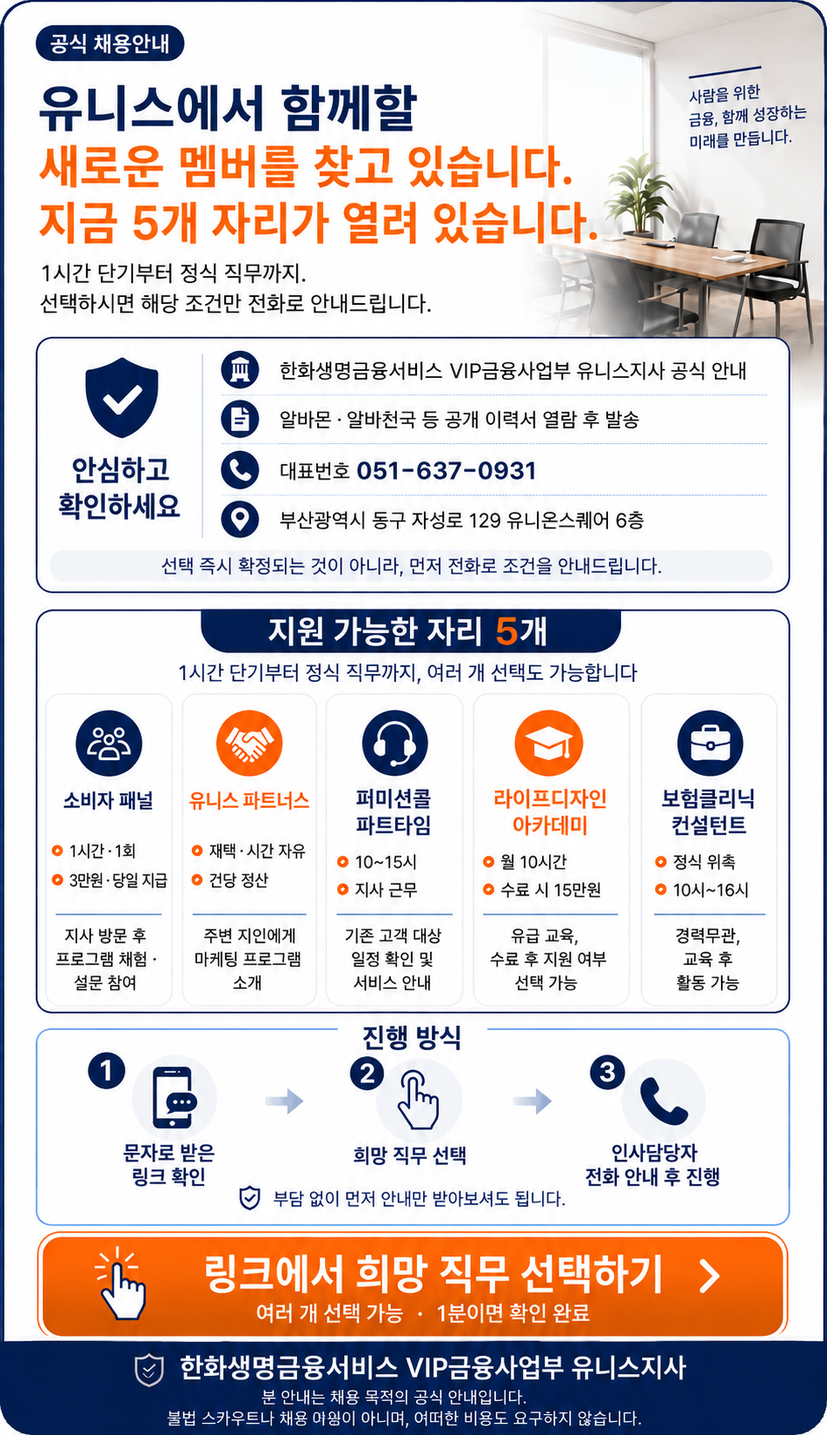
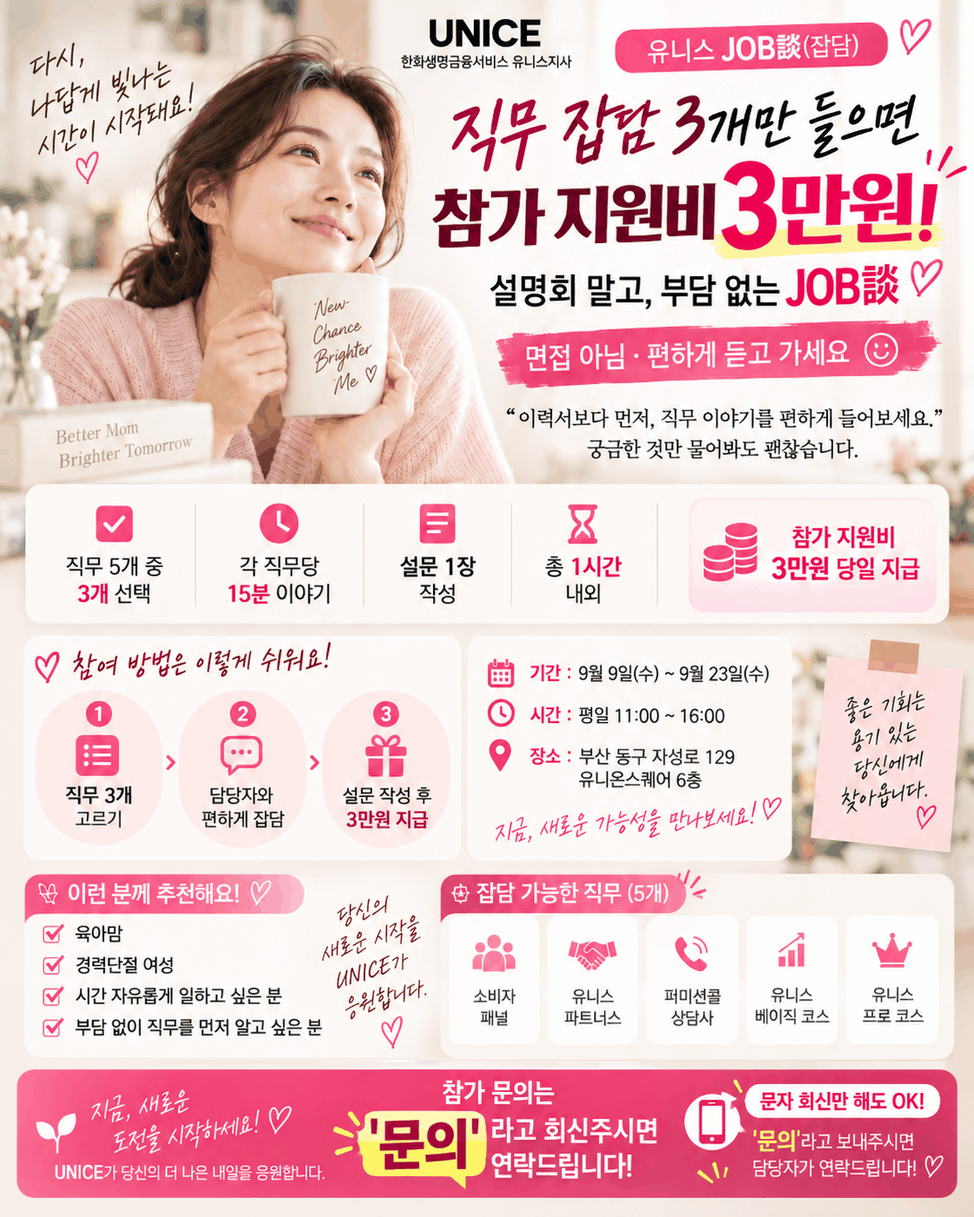
Add files via upload

diff --git a/unispace/job/index.html b/unispace/job/index.html
@@ -3,9 +3,9 @@
 <head>
 <meta charset="UTF-8">
 <meta name="viewport" content="width=device-width, initial-scale=1, viewport-fit=cover">
-<title>유니스지사 채용안내</title>
-<meta property="og:title" content="유니스지사 채용안내">
-<meta property="og:description" content="희망 직무 선택 · 1분이면 확인">
+<title>유니스 JOB談(잡담) 안내</title>
+<meta property="og:title" content="유니스 JOB談(잡담) · 9/9~9/23">
+<meta property="og:description" content="직무 잡담 3개 + 설문 1장 → 참가 지원비 3만원">
 <link rel="stylesheet" href="https://cdn.jsdelivr.net/gh/orioncactus/pretendard@v1.3.9/dist/web/static/pretendard.min.css">
 <style>
 :root{
@@ -126,6 +126,22 @@ h1 em{font-style:normal;color:var(--or-deep)}
 @keyframes jdspin{to{transform:rotate(360deg)}}
 @media (prefers-reduced-motion:reduce){.spin{animation-duration:2s}}
 
+/* jobdam info strip */
+.strip{margin:12px 16px 0;display:grid;grid-template-columns:1fr 1fr 1.3fr;gap:6px}
+.strip div{background:var(--navy);color:#fff;border-radius:12px;padding:11px 8px;text-align:center}
+.strip small{display:block;font-size:10.5px;color:#B8C2D6;font-weight:600;letter-spacing:.02em}
+.strip b{display:block;font-size:15px;font-weight:800;margin-top:3px;letter-spacing:-.02em}
+.strip b em{font-style:normal;color:#FFB570}
+.strip .hl{background:var(--or)}
+.strip .hl small{color:#FFE3CF}
+.formula{margin:8px 16px 0;background:#fff;border:1px dashed #F5C09A;border-radius:12px;padding:10px 12px;font-size:13px;font-weight:700;text-align:center;color:var(--ink)}
+.formula em{font-style:normal;color:var(--or-deep)}
+.cnt{margin-top:10px;display:flex;justify-content:center;gap:6px}
+.cnt i{width:26px;height:26px;border-radius:50%;border:1.5px solid #CBD2DA;background:#fff;font-style:normal;font-size:12px;font-weight:800;color:#CBD2DA;display:flex;align-items:center;justify-content:center}
+.cnt i.on{background:var(--or);border-color:var(--or);color:#fff}
+.cnt i.more{border-style:dashed}
+.brand .jd{font-family:"Pretendard",serif;letter-spacing:0}
+
 /* sticky cta */
 .cta{position:fixed;left:0;right:0;bottom:0;padding:10px 16px 16px;background:linear-gradient(to top,rgba(243,245,247,1) 60%,rgba(243,245,247,0))}
 .cta .in{max-width:480px;margin:0 auto}
@@ -138,8 +154,8 @@ h1 em{font-style:normal;color:var(--or-deep)}
 <div class="wrap">
 
   <div class="top">
-    <div class="brand"><span class="mark"></span><div>한화생명금융서비스<small>VIP금융사업부 유니스지사 · 공식 채용안내</small></div></div>
-    <a class="tel" href="tel:0516370931">대표번호 051-637-0931</a>
+    <div class="brand"><span class="mark"></span><div>유니스 <span class="jd">JOB談</span> <span style="font-weight:600;color:var(--mute);font-size:12px">(잡담)</span><small>한화생명금융서비스 유니스지사</small></div></div>
+    <a class="tel" href="tel:0516370931" style="white-space:nowrap">051-637-0931</a>
   </div>
 
   <div class="ticket" id="ticketBox">
@@ -149,49 +165,64 @@ h1 em{font-style:normal;color:var(--or-deep)}
   </div>
 
   <div class="hero">
-    <div class="eyebrow">공식 채용안내 · 읽는 데 1분</div>
-    <h1 id="heroTitle">이력서를 확인하고<br>연락드렸습니다.<br>지금 <em>5개 직무</em>가 열려 있습니다.</h1>
-    <p class="lead">1시간 단기부터 정식 직무까지.<br>선택하시면 해당 조건만 전화로 안내드립니다.</p>
+    <div class="eyebrow">유니스 JOB談(잡담) · 9월 9일 ~ 9월 23일</div>
+    <h1 id="heroTitle">JOB 이야기를<br>잡담처럼 편하게.<br>직무 잡담 <em>3개</em>에 지원비 3만원.</h1>
+    <p class="lead">직무 5개 중 3개를 고르면, 그 일을 실제로 하는 담당자와<br>15분씩 이야기합니다. 설명회도 면접도 아닌, 잡담입니다.</p>
   </div>
+
+  <div class="strip">
+    <div><small>기간</small><b>9/9 ~ 9/23</b></div>
+    <div><small>소요 시간</small><b>약 1시간</b></div>
+    <div class="hl"><small>참가 지원비</small><b>3만원 <em style="color:#fff;font-size:11px;font-weight:600">당일 지급</em></b></div>
+  </div>
+  <div class="formula">직무 잡담 <em>3개</em> + 설문 <em>1장</em> = 참가 지원비 <em>3만원</em><div style="font-weight:600;color:var(--mute);font-size:12px;margin-top:3px">평일 11~16시 중 원하는 시간 1회 방문</div></div>
 
   <div style="margin:16px 16px 0;display:grid;grid-template-columns:1fr 1fr 1fr;gap:6px">
     <div style="background:#fff;border:1px solid var(--line);border-radius:12px;padding:10px 8px;text-align:center">
       <div style="font-size:11px;font-weight:800;color:var(--or-deep)">STEP 1</div>
-      <div style="font-size:12.5px;font-weight:700;margin-top:2px">희망 직무 선택</div>
+      <div style="font-size:12.5px;font-weight:700;margin-top:2px">직무 3개 선택</div>
     </div>
     <div style="background:#fff;border:1px solid var(--line);border-radius:12px;padding:10px 8px;text-align:center">
       <div style="font-size:11px;font-weight:800;color:var(--or-deep)">STEP 2</div>
-      <div style="font-size:12.5px;font-weight:700;margin-top:2px">담당자 전화 안내</div>
+      <div style="font-size:12.5px;font-weight:700;margin-top:2px">담당자 전화</div>
     </div>
     <div style="background:#fff;border:1px solid var(--line);border-radius:12px;padding:10px 8px;text-align:center">
       <div style="font-size:11px;font-weight:800;color:var(--or-deep)">STEP 3</div>
-      <div style="font-size:12.5px;font-weight:700;margin-top:2px">조건 확인 후 결정</div>
+      <div style="font-size:12.5px;font-weight:700;margin-top:2px">일정 확정 · 방문</div>
     </div>
   </div>
-  <div style="margin:8px 16px 0;font-size:12px;color:var(--mute);text-align:center">선택 즉시 확정되는 것이 아니라, 먼저 전화로 조건을 안내드립니다.</div>
+  <div style="margin:8px 16px 0;font-size:12px;color:var(--mute);text-align:center">신청 후 담당자가 전화로 방문 일정을 잡아드립니다.</div>
 
   <div class="person" id="personBox">
     <div class="ph" id="ownAvatar">유</div>
     <div>
-      <div class="nm"><span id="ownName">담당자</span> <span style="font-weight:500;font-size:13px;color:var(--mute)" id="ownTitle">채용홍보 담당</span></div>
+      <div class="nm"><span id="ownName">담당자</span> <span style="font-weight:500;font-size:13px;color:var(--mute)" id="ownTitle">잡담 담당</span></div>
       <div class="rl" id="ownRow">한화생명금융서비스 유니스지사</div>
-      <div class="msg">방금 통화드린 사람이 저예요. 궁금한 건 이 번호로 문자 주셔도 됩니다.</div>
+      <div class="msg" id="ownMsg">방금 통화드린 사람이 저예요. 오시면 제가 잡담 맡아서 직접 이야기 나눌게요.</div>
+      <div class="mgr" id="mgrLine" style="display:none;margin-top:9px;padding:9px 11px;background:#F3F5F7;border-radius:9px;font-size:12px;color:var(--ink2)">
+        <div style="display:flex;align-items:center;gap:6px"><span>📞</span><span>방문 일정 확인 전화</span></div>
+        <div style="display:flex;align-items:center;justify-content:space-between;gap:8px;margin-top:4px;padding-left:22px">
+          <b id="mgrName" style="color:var(--ink);font-size:13px;white-space:nowrap">지점장</b>
+          <span id="mgrPhone" style="color:var(--ink);font-weight:700;font-variant-numeric:tabular-nums;white-space:nowrap"></span>
+        </div>
+      </div>
     </div>
   </div>
 
 
   <div class="sec">
-    <h2>지원 가능한 직무 <em>5개</em></h2>
-    <div class="sub">복수 선택 가능합니다.</div>
+    <h2>잡담할 직무 <em>5개</em></h2>
+    <div class="sub"><b style="color:var(--ink)">3개 이상</b> 골라주세요. 하나당 15분씩, 그 일을 하는 담당자와 이야기합니다.</div>
+    <div class="cnt" id="cnt"><i>1</i><i>2</i><i>3</i><i class="more">+</i></div>
     <div class="jobs" id="jobs">
 
       <div class="job">
-        <div class="rail"><div class="rb"><b>단기알바</b><span>1시간 1회</span><i class="rm" style="font-style:normal">3만원</i></div></div>
+        <div class="rail"><div class="rb"><b>체험</b><span>15분 + 설문</span><i class="rm" style="font-style:normal">설문 1장</i></div></div>
         <div class="card" data-k="panel"><i class="chk"></i>
           <div class="t">소비자 패널</div>
-          <div class="pay">3만원 · 당일 지급</div>
-          <div class="d">라이프핏 프로그램 평가단. 지사에 오셔서 1시간 프로그램을 보고 소비자 설문에 답해주시면 끝입니다.</div>
-          <div class="tags"><span class="tag">지사 방문 1회</span><span class="tag">설문 참여</span><span class="tag">일정은 전화로 조율</span></div>
+          <div class="pay">라이프핏 프로그램 체험 · 소비자 설문</div>
+          <div class="d">라이프핏 프로그램을 15분 보고 소비자 입장에서 설문에 답합니다. 이 설문이 지원비 조건의 "설문 1장"입니다.</div>
+          <div class="tags"><span class="tag">프로그램 체험</span><span class="tag">설문 참여</span><span class="tag">잡담 1개로 인정</span></div>
         </div>
       </div>
 
@@ -208,7 +239,7 @@ h1 em{font-style:normal;color:var(--or-deep)}
       <div class="job">
         <div class="rail"><div class="rb"><b>파트타임</b><span>13~15시<br>월평균</span><i class="rm" style="font-style:normal">50만</i></div></div>
         <div class="card" data-k="permission"><i class="chk"></i>
-          <div class="t">퍼미션콜 파트타임</div>
+          <div class="t">퍼미션콜 상담사</div>
           <div class="pay">건당 정산</div>
           <div class="d">기존 고객에게 일정 확인과 서비스 안내 전화를 드립니다. 신규 판매 전화가 아니라 이미 고객인 분들께만 연락합니다.</div>
           <div class="tags"><span class="tag">기존 고객 대상</span><span class="tag">지사 근무</span><span class="tag">근무일 협의</span></div>
@@ -216,22 +247,22 @@ h1 em{font-style:normal;color:var(--or-deep)}
       </div>
 
       <div class="job">
-        <div class="rail"><div class="rb edu"><b>유급교육</b><span>10시간</span><i class="rm" style="font-style:normal">15만원</i></div></div>
+        <div class="rail"><div class="rb edu"><b>유급교육</b><span>5일<br>하루 3시간</span><i class="rm" style="font-style:normal">15만원</i></div></div>
         <div class="card" data-k="lifedesign"><i class="chk"></i>
-          <div class="t">라이프디자인 아카데미</div>
-          <div class="pay">수료 시 15만원 · 유급 교육</div>
-          <div class="d">금융 트렌드 기초, 중대 질병 가상 체험. 총 10시간 수료하면 교육비를 드립니다. 수료 후 컨설턴트 지원은 가능하지만 의무가 아닙니다.</div>
-          <div class="tags"><span class="tag edu">유급 교육</span><span class="tag">총 10시간</span><span class="tag">수료일 일괄 지급</span></div>
+          <div class="t">유니스 베이직 코스</div>
+          <div class="pay">5일 수료 시 지원비 15만원</div>
+          <div class="d">금융 트렌드 기초와 중대질병 가상체험(라이프디자인). 하루 3시간, 5일 수료 시 일괄 지급. 수료자에게 프로 코스 참가 자격이 주어집니다.</div>
+          <div class="tags"><span class="tag edu">유급 교육</span><span class="tag">5일 · 15시간</span><span class="tag">프로 코스 자격</span></div>
         </div>
       </div>
 
       <div class="job">
-        <div class="rail"><div class="rb main"><b>정규위촉</b><span>월평균</span><i class="rm" style="font-style:normal">300~400만</i></div></div>
+        <div class="rail"><div class="rb main"><b>유급교육</b><span>20일<br>하루 3시간</span><i class="rm" style="font-style:normal;border-color:#CBD5E0;color:var(--navy)">40만원</i></div></div>
         <div class="card main" data-k="fp"><i class="chk"></i>
-          <div class="t">보험클리닉 컨설턴트</div>
-          <div class="pay">교육 후 위촉 · 성과제</div>
-          <div class="d">33개 보험사 상품을 비교해 고객 보험을 정리해드리는 일. 오전 10시~오후 4시 근무라 육아와 병행하는 분이 70%입니다. 경력 없어도 교육부터 시작합니다.</div>
-          <div class="tags"><span class="tag">10시~16시</span><span class="tag">경력 무관</span><span class="tag">교육 후 위촉</span></div>
+          <div class="t">유니스 프로 코스</div>
+          <div class="pay">지원비 40만원 + 고객DB 지원</div>
+          <div class="d">33개 보험사 상품을 비교해 고객 보험을 정리하는 실무(보험클리닉). 10일 차 15만원, 20일 수료 시 25만원. 수료 후 활동 시 고객DB를 지원합니다.</div>
+          <div class="tags"><span class="tag edu">베이직 수료자 대상</span><span class="tag">10시~13시</span><span class="tag">고객DB 지원</span></div>
         </div>
       </div>
 
@@ -239,24 +270,24 @@ h1 em{font-style:normal;color:var(--or-deep)}
   </div>
 
   <div class="sec">
-    <h2>어떻게 안내받을까요</h2>
-    <div class="sub">선택하시면 <b style="color:var(--ink)">인사담당자가 먼저 전화로</b> 안내드립니다.</div>
-    <div class="opts" id="opts">
+    <h2>언제 오실래요</h2>
+    <div class="sub">9/9~9/23 중 남은 자리입니다. 지점장이 <b style="color:var(--ink)">전화로 확인한 뒤</b> 확정됩니다.</div>
+    <div class="opts" id="opts" style="display:none">
       <div class="opt" data-k="visit">지사 방문</div>
       <div class="opt on" data-k="call">전화 인터뷰</div>
     </div>
-    <div id="visitBox" style="display:none">
-      <div class="sub" style="margin-top:14px">방문 희망 시간 · 탭하면 선택</div>
+    <div id="visitBox">
+      <div class="sub" style="margin-top:12px">잡담 방문 희망 시간 · 탭하면 선택</div>
       <div class="slots" id="visitSlots"></div>
-      <div class="noinput" style="margin-top:10px"><b>✓</b><span>선택하신 시간은 희망 시간으로 접수되며, 확정 전에 인사담당자가 전화로 안내드립니다.</span></div>
+      <div class="noinput" style="margin-top:10px"><b>✓</b><span>선택하신 시간은 희망 시간으로 접수되며, 확정 전에 지점장이 전화로 확인드립니다.</span></div>
     </div>
-    <div id="callBox">
-      <div class="sub" style="margin-top:14px">인사담당자 전화 받기 편한 시간</div>
+    <div id="callBox" style="display:none">
+      <div class="sub" style="margin-top:12px">9/9~9/23 평일 중 · 탭하면 선택</div>
       <div class="slots" id="callSlots">
-        <div class="slot" data-k="am">오전 <span>10~12시</span></div>
+        <div class="slot" data-k="am">오전 <span>11~12시</span></div>
         <div class="slot" data-k="noon">점심 <span>12~14시</span></div>
         <div class="slot" data-k="pm">오후 <span>14~16시</span></div>
-        <div class="slot" data-k="any">상관없음 <span>아무 때나</span></div>
+        <div class="slot" data-k="any">상관없음 <span>전화로 정할게요</span></div>
       </div>
     </div>
     <div id="nameBox" style="display:none;margin-top:14px">
@@ -266,7 +297,7 @@ h1 em{font-style:normal;color:var(--or-deep)}
     <div id="phoneBox" style="display:none;margin-top:12px">
       <div class="sub">연락처</div>
       <input id="phoneInput" type="tel" inputmode="numeric" placeholder="예: 01012345678" style="width:100%;margin-top:8px;padding:13px 14px;border:1.5px solid var(--line);border-radius:12px;font-size:15px;font-family:inherit;background:#FAFBFC">
-      <div style="font-size:11.5px;color:var(--mute);margin-top:6px">담당자 전화 안내를 받으실 번호입니다.</div>
+      <div style="font-size:11.5px;color:var(--mute);margin-top:6px">담당자가 일정 확인 전화를 드릴 번호입니다.</div>
     </div>
     <div class="noinput" id="noInputNote"><b>✓</b><span>연락처는 이미 알고 있어 입력칸이 없습니다. 이 페이지는 받으신 분만 열 수 있는 주소입니다.</span></div>
   </div>
@@ -274,9 +305,10 @@ h1 em{font-style:normal;color:var(--or-deep)}
   <div class="sec">
     <h2>자주 묻는 질문</h2>
     <div class="faq">
-      <div class="q"><b>직무 선택을 하면 바로 확정되나요?</b><p>아닙니다. 인사담당자(지점장)가 편하신 시간에 전화드려 조건을 설명하고, 서로 맞는다고 판단될 때만 방문 일정을 잡습니다.</p></div>
-      <div class="q"><b>여러 개 선택해도 되나요?</b><p>네. 선택하신 직무 전부를 한 번의 전화에서 같이 안내드립니다.</p></div>
-      <div class="q"><b>지사 방문은 꼭 해야 하나요?</b><p>전화 인터뷰만으로 진행되는 직무도 있습니다. 방문이 필요한 경우 담당자가 미리 말씀드립니다.</p></div>
+      <div class="q"><b>잡담이 뭔가요?</b><p>JOB(직무) 이야기를 잡담처럼 편하게 나누는 자리입니다. 고른 직무 하나당 15분씩, 그 일을 실제로 하는 담당자에게 궁금한 걸 물어보시면 됩니다.</p></div>
+      <div class="q"><b>3개를 다 들어야 지원비를 받나요?</b><p>네. 직무 잡담 3개와 설문 1장이 조건입니다. 전부 합쳐 1시간 정도이고, 지원비는 당일 지급됩니다.</p></div>
+      <div class="q"><b>잡담 후에 꼭 뭔가 해야 하나요?</b><p>아닙니다. 잡담은 잡담으로 끝나도 됩니다. 관심 가는 직무가 있으면 그때 담당자에게 다음 단계를 물어보시면 됩니다.</p></div>
+      <div class="q"><b>언제 가면 되나요?</b><p>9월 9일부터 23일까지 평일 11시~16시 중, 담당자와 전화로 정한 시간에 오시면 됩니다. 신청하시면 담당자가 먼저 전화드립니다.</p></div>
       <div class="q" id="faqResume"><b>제 이력서는 어떻게 보신 건가요?</b><p>알바몬·알바천국에 공개하신 이력서를 채용 목적으로 열람했습니다. 열람 경로와 날짜는 이 페이지 맨 위에 적혀 있습니다.</p></div>
     </div>
   </div>
@@ -311,8 +343,8 @@ h1 em{font-style:normal;color:var(--or-deep)}
   <div><div class="spin" id="screenSpin"></div><div id="screenMsg" style="font-size:15px;color:var(--ink2)">안내를 불러오는 중입니다...</div></div>
 </div>
 <div class="cta"><div class="in">
-  <button class="btn" id="go" disabled>직무를 선택해 주세요</button>
-  <div class="hint" id="hint">인사담당자가 편하신 시간에 전화드립니다</div>
+  <button class="btn" id="go" disabled>잡담할 직무를 3개 골라주세요</button>
+  <div class="hint" id="hint">담당자가 전화로 방문 일정을 잡아드립니다</div>
 </div></div>
 
 <script>
@@ -325,10 +357,11 @@ h1 em{font-style:normal;color:var(--or-deep)}
   } catch (e) {}
 
   var sel = {};
-  var how = 'call';
+  var how = 'visit';
   var slot = '';      // visit: date|time, call: band key
   var hasName = false;
-  var names = { panel:'소비자 패널', partners:'유니스 파트너스', permission:'퍼미션콜', lifedesign:'라이프디자인', fp:'컨설턴트' };
+  var names = { panel:'소비자 패널', partners:'유니스 파트너스', permission:'퍼미션콜 상담사', lifedesign:'베이직 코스', fp:'프로 코스' };
+  var MIN_SEL = 3;
   var bandLabel = { am:'오전 10~12시', noon:'점심 12~14시', pm:'오후 14~16시', any:'상관없음' };
 
   // minimal JSONP helper with timeout
@@ -375,7 +408,7 @@ h1 em{font-style:normal;color:var(--or-deep)}
         h += '<div class="slot" data-k="' + esc(key) + '">' + esc(d.label) + ' <span>' + esc(d.times[j].label) + '</span></div>';
       }
     }
-    if (!h) h = '<div class="sub" style="grid-column:1/-1">이번 주 방문 가능 시간이 마감되었습니다. 전화 인터뷰를 선택해주세요.</div>';
+    if (!h) h = '<div class="sub" style="grid-column:1/-1">이번 주 방문 가능 시간이 마감되었습니다. 신청하시면 담당자가 전화로 다음 주 일정을 잡아드립니다.</div>';
     box.innerHTML = h;
     wireSlots('visitSlots');
   }
@@ -384,9 +417,16 @@ h1 em{font-style:normal;color:var(--or-deep)}
     var btn = document.getElementById('go');
     var n = 0; var arr = [];
     for (var k in sel) { if (sel[k]) { n++; arr.push(names[k]); } }
-    if (!n) { btn.disabled = true; btn.textContent = '직무를 선택해 주세요'; return; }
+    try {
+      var dots = document.querySelectorAll('#cnt i');
+      for (var di = 0; di < dots.length; di++) {
+        if (dots[di].classList.contains('more')) { if (n > 3) dots[di].classList.add('on'); else dots[di].classList.remove('on'); }
+        else { if (di < n) dots[di].classList.add('on'); else dots[di].classList.remove('on'); }
+      }
+    } catch (e) {}
+    if (n < MIN_SEL) { btn.disabled = true; btn.textContent = n ? ('직무 ' + (MIN_SEL - n) + '개 더 골라주세요 (' + n + '/' + MIN_SEL + ')') : '잡담할 직무를 3개 골라주세요'; return; }
     btn.disabled = false;
-    btn.textContent = '담당자 안내받기 (' + arr.length + '개 선택)';
+    btn.textContent = '잡담 신청하기 (' + arr.length + '개 선택)';
   }
 
   var cards = document.querySelectorAll('.card');
@@ -423,7 +463,38 @@ h1 em{font-style:normal;color:var(--or-deep)}
   wireSlots('callSlots');
 
   function load(){
-    if (!token) { screen('주소가 올바르지 않습니다.<br>문자로 받으신 링크를 다시 눌러주세요.'); return; }
+    if (!token && !/[?&]mock=1/.test(location.search)) { screen('주소가 올바르지 않습니다.<br>문자로 받으신 링크를 다시 눌러주세요.'); return; }
+    if (!token) {
+      // preview only (?mock=1)
+      screen('', true);
+      var mockSrc = (location.search.match(/[?&]src=([^&]+)/) || [])[1] || '';
+      renderSlots([
+        { d:'2026-09-09', label:'9/9(수)', times:[{t:'11:00',label:'11:00'},{t:'14:00',label:'14:00'}] },
+        { d:'2026-09-10', label:'9/10(목)', times:[{t:'12:30',label:'12:30'}] },
+        { d:'2026-09-11', label:'9/11(금)', times:[{t:'11:00',label:'11:00'},{t:'15:00',label:'15:00'}] }
+      ]);
+      if (mockSrc === 'albamon' || mockSrc === 'albacheon') {
+        document.getElementById('tkSrc').textContent = (mockSrc === 'albamon' ? '알바몬' : '알바천국') + ' · 9월 7일(월)';
+        document.getElementById('tkName').textContent = 'OOO님';
+        document.getElementById('tkValid').textContent = '9월 23일(수)까지';
+        document.getElementById('ownName').textContent = '고은채';
+        document.getElementById('ownAvatar').textContent = '고';
+        document.getElementById('mgrName').textContent = '이수아 지점장';
+        document.getElementById('mgrPhone').textContent = '010-0000-0000';
+        document.getElementById('mgrLine').style.display = '';
+      } else {
+        document.getElementById('ticketBox').style.display = 'none';
+        document.getElementById('ownName').textContent = '김유경';
+        document.getElementById('ownAvatar').textContent = '김';
+        var pm0 = document.getElementById('ownMsg');
+        if (pm0) pm0.textContent = '제 소개로 오시는 잡담은 제가 맡아요. 오시면 직접 이야기 나눌게요.';
+        document.getElementById('mgrName').textContent = '전소영 지점장';
+        document.getElementById('mgrPhone').textContent = '010-0000-0000';
+        document.getElementById('mgrLine').style.display = '';
+        var fr0 = document.getElementById('faqResume'); if (fr0) fr0.style.display = 'none';
+      }
+      return;
+    }
     jsonp({ action:'jobResolve', t:token }, function(res){
       if (!res) { screen('연결이 원활하지 않습니다.<br><br><button onclick="location.reload()" style="padding:12px 22px;border:0;border-radius:12px;background:#F37321;color:#fff;font-weight:800;font-size:14px">다시 시도</button>'); return; }
       if (!res.ok) {
@@ -446,7 +517,9 @@ h1 em{font-style:normal;color:var(--or-deep)}
       var isRefPre = !(res.source === '알바몬' || res.source === '알바천국');
       if (isRefPre) {
         document.getElementById('ticketBox').style.display = 'none';
-        document.getElementById('personBox').style.display = 'none';
+        // referral: keep the person card so they know who will call
+        var pm = document.getElementById('ownMsg');
+        if (pm) pm.textContent = '제 소개로 오시는 잡담은 제가 맡아요. 오시면 직접 이야기 나눌게요.';
       }
       var vu = String(res.validUntil || '');
       if (vu) {
@@ -465,6 +538,12 @@ h1 em{font-style:normal;color:var(--or-deep)}
         var av = document.getElementById('ownAvatar');
         if (av) av.textContent = String(res.owner.name).charAt(0);
         if (res.owner.title) document.getElementById('ownTitle').textContent = res.owner.title;
+      }
+      // who makes the schedule call (branch manager) - JobDesk.gs jobResolve returns res.mgr = {name, phone}; phone = manager's mobile from FP roster (col C)
+      if (res.mgr && res.mgr.name) {
+        document.getElementById('mgrName').textContent = res.mgr.name + ' 지점장';
+        document.getElementById('mgrPhone').textContent = res.mgr.phone || '';
+        document.getElementById('mgrLine').style.display = '';
       }
       var needContact = !!res.needContact;
       if (!nm) { document.getElementById('nameBox').style.display = ''; }
@@ -489,8 +568,9 @@ h1 em{font-style:normal;color:var(--or-deep)}
   document.getElementById('go').addEventListener('click', function(){
     var arr = [];
     for (var k in sel) { if (sel[k]) arr.push(names[k]); }
-    if (!arr.length) return;
-    if (!slot) { alert(how === 'visit' ? '방문 희망 시간을 골라주세요' : '전화 받기 편한 시간을 골라주세요'); return; }
+    if (arr.length < MIN_SEL) return;
+    if (!slot) { alert('잡담 방문 희망 시간을 골라주세요'); return; }
+    if (!token) { alert('[목업] 실제 배포 시 여기서 접수됩니다.\n선택: ' + arr.join(', ') + '\n시간대: ' + slot); return; }
     var btn = this;
     btn.disabled = true; btn.textContent = '접수 중...';
     var params = { action:'jobSubmit', t:token, jobs:arr.join(','), how:how };
@@ -527,7 +607,7 @@ h1 em{font-style:normal;color:var(--or-deep)}
         }
         return;
       }
-      var summary = how === 'visit' ? '지사 방문 신청이 접수되었습니다.' : '전화 인터뷰 신청이 접수되었습니다.';
+      var summary = '잡담 신청이 접수되었습니다.';
       screen('<div style="font-size:34px;margin-bottom:14px">&#9989;</div><b style="font-size:18px;color:#1A2744">' + summary + '</b><br><br>확정 전에 인사담당자가 전화로<br>자세한 조건을 안내드립니다.<br><br><span style="font-size:13px;color:#7B8794">문의: 051-637-0931</span>');
     });
   });
